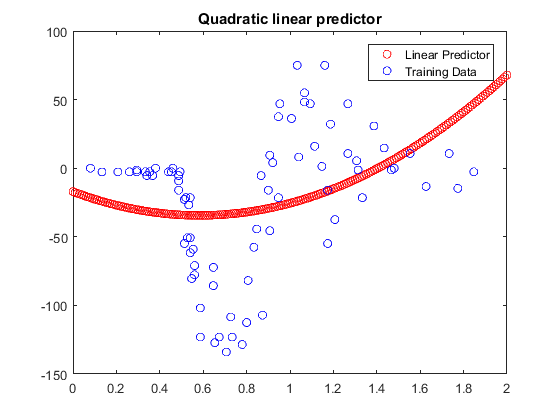
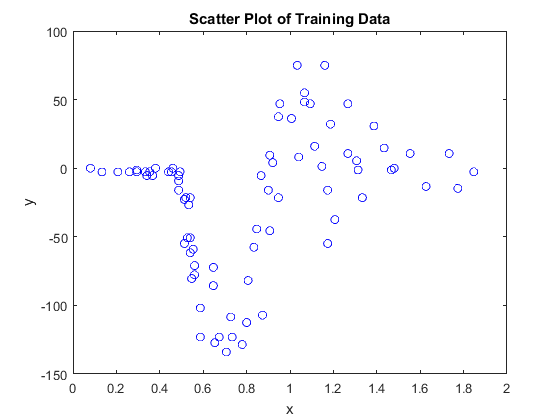
Updated Q1 in report

diff --git a/Assignment 1 - CAB420.tex b/Assignment 1 - CAB420.tex
@@ -1,8 +1,34 @@
 \documentclass[]{report}   % list options between brackets        
-\usepackage{graphicx}      % list packages between braces
+\usepackage{graphicx, listings, color}      % list packages between braces
 \graphicspath{ {Images/} }
 
 % type user-defined commands here
+
+\definecolor{codegreen}{rgb}{0,0.6,0}
+\definecolor{codegray}{rgb}{0.5,0.5,0.5}
+\definecolor{codepurple}{rgb}{0.58,0,0.82}
+\definecolor{backcolour}{rgb}{0.95,0.95,0.92}
+ 
+\lstdefinestyle{mystyle}{
+    backgroundcolor=\color{backcolour},   
+    commentstyle=\color{codegreen},
+    keywordstyle=\color{magenta},
+    numberstyle=\tiny\color{codegray},
+    stringstyle=\color{codepurple},
+    basicstyle=\footnotesize,
+    breakatwhitespace=false,         
+    breaklines=true,                 
+    captionpos=b,                    
+    keepspaces=true,                 
+    numbers=left,                    
+    numbersep=5pt,                  
+    showspaces=false,                
+    showstringspaces=false,
+    showtabs=false,                  
+    tabsize=2
+}
+ 
+\lstset{style=mystyle}
 
 \begin{document}
 
@@ -78,35 +104,62 @@ Using proof by contradiction,
 
 \section{Features, Classes, and Linear Regression}
 %%%%%%%%%%%%%%%%%%%%
-
+(a) Plot the training data in a scatter plot.
 \begin{center}
 	\includegraphics[width=35em]{2_1_Figure_1.png}
+	{Figure 1: Training data in a scatter plot.}
 \end{center} 
-{Figure 1: Quadratic linear predictor.} \\
-{The Mean Squared Error for training data was $2178.55$.} \\
-{The Mean Squared Error for test data was $1463.34$.} \\
-
+~\\
+(b) Create a linear predictor (assuming quadratic features). Plot it on the same plot as the training data.
 \begin{center}
 	\includegraphics[width=35em]{2_1_Figure_2.png}
-\end{center} 
-{Figure 2: Quintic (Fifth-degree) linear predictor.} \\
-{The Mean Squared Error for training data was $1254.61$.} \\
-{The Mean Squared Error for test data was $754.17$.} \\
+	{Figure 2: Quadratic linear predictor with training data scatter plot.}
+\end{center}.
+~\\ 
+(c) Create another plot with the data and a fifth-degree polynomial.
+\begin{center}
+	\includegraphics[width=35em]{2_1_Figure_3.png}
+	{Figure 3: Quintic linear predictor with training data scatter plot.}
+\end{center}
+~\\
+(d) Calculate the mean squared error associated with each of your learned models on the training
+data.
+\begin{lstlisting}[caption=Matlab output for MSE calculations on training data.]
+The MSE for the quadratic linear predictor on training data was: 2178.55
+The MSE for the quintic linear predictor on training data was: 1254.61
+\end{lstlisting}
+~\\
+(e) Calculate the MSE for each model on the test data (in mcycleTest.txt).
+\begin{lstlisting}[caption=Matlab output for MSE calculations on test data.]
+The MSE for the quadratic linear predictor on test data was: 1573.27
+The MSE for the quintic linear predictor on test data was: 999.65
+\end{lstlisting}
+
+
+
 
 
 \section{kNN Regression}
 \section{Hold-out and Cross-validation}
 \section{Nearest Neighbor Classifiers}
 %%%%%%%%%%%%%%%%%%%%
-
 (a) Plot the data by their feature values, using the class value to select the color.
 \begin{center}
 	\includegraphics[width=35em]{2_4_Figure_1.png}
+	{Figure X: Data plotted by feature value with class value determining colour.}
 \end{center} 
-(b) Use the provided $knnClassify$ class to learn a 1-nearest-neighbor predictor. Use the function $class2DPlot(learner,X,Y)$ to plot the decision regions and training data together.
+~\\
+(b) Use the provided $knnClassify$ class to learn a 1-nearest-neighbour predictor. Use the function $class2DPlot(learner,X,Y)$ to plot the decision regions and training data together.
+\begin{lstlisting}[language=Matlab, caption=Teaching the 1-nearest-neighbour predictor.]
+learner = knnClassify(1, X, Y);
+class2DPlot(learner,X,Y);
+title('1-nearest-neighbour predictor');
+\end{lstlisting}
 \begin{center}
 	\includegraphics[width=35em]{2_4_Figure_2.png}
+	{Figure 3: Plot of decision regions and training data. Generated with $class2DPlot()$.}
 \end{center} 
+~\\
 (c) Do the same thing for several values of k (say, [1, 3, 10, 30]) and comment on their appearance.
 \begin{center}
 	\includegraphics[width=35em]{2_4_Figure_3.png}
@@ -129,5 +182,124 @@ Using proof by contradiction,
 
 
 \section{Perceptrons and Logistic Regression}
+{(a) Show the two classes in a scatter plot and verify that one is linearly separable while the other is not.}
+\begin{center}
+%	\includegraphics[width=35em]{2_5_Figure_1.png}
+	{Figure X: Class A. Data {\bf is} linearly separable.}
+\end{center} 
+\begin{center}
+%	\includegraphics[width=35em]{2_5_Figure_2.png}
+	{Figure X: Class B. Data {\bf is not} linearly separable.}
+\end{center} 
+{(b) Write the function @logisticClassify2/plot2DLinear.m so that it plots the two
+classes of data in different colors, along with the decision boundary. Include the listing of your code in your report.}
+
+\begin{lstlisting}[language=Matlab, caption=plot2DLinear() Implementation]
+function plot2DLinear(obj, X, Y)
+% plot2DLinear(obj, X,Y)
+%   plot a linear classifier (data and decision boundary) when features X are 2-dim
+%   wts are 1x3,  wts(1)+wts(2)*X(1)+wts(3)*X(2)
+%
+[n,d] = size(X);
+if (d~=2) error('Sorry -- plot2DLogistic only works on 2D data...'); end;
+
+%%% TODO: Fill in the rest of this function...
+figure('Name','Linear Plot');
+hold on;
+
+% Plot class data.
+classes = unique(Y);
+
+classAIndicies = find(Y==classes(1));
+xPointsClassA = X(classAIndicies, 1:end);
+scatter(xPointsClassA(:, 1), xPointsClassA(:, 2));
+
+classBIndicies = find(Y==classes(2));
+xPointsClassB = X(classBIndicies, 1:end);
+scatter(xPointsClassB(:, 1), xPointsClassB(:, 2));
+
+
+% Plot decision boundary.
+wts = getWeights(obj);
+f = @(x1, x2) wts(1) + wts(2)*x1 + wts(3)*x2 ;
+ezplot(f,[-3.5,3.5])
+
+legend('Class 0','Class 1', 'Decision Bondary');
+hold off;
+\end{lstlisting}
+{To demo your function plot the decision boundary corresponding to the classifier: $sign( .5 + 1x_{1} − .25x_{2} )$ along with the A data, and again with the B data.}
+\begin{lstlisting}[language=Matlab, caption=Demoing plot2DLinear()]
+%% (B) Write the function @logisticClassify2/plot2DLinear.m such that it 
+%      can Plot the two classes of data in different colors, along with the 
+%      decision boundary (a line). To demo your function plot the decision 
+%       boundary corresponding to the classifier sign( .5 + 1x1 − .25x2 )
+%       along with the A data, and again with the B data.
+
+learner=logisticClassify2(); % create "blank" learner
+learner=setClasses(learner, unique(YA)); % define class labels using YA or YB
+wts = [0.5 1 -0.25]; % TODO: fill in values
+learner=setWeights(learner, wts); % set the learner's parameters
+plot2DLinear(learner, XA, YA);
+title('Class A with Decision Boundary');
+plot2DLinear(learner, XB, YB);
+title('Class B with Decision Boundary');
+\end{lstlisting}
+\begin{center}
+%	\includegraphics[width=35em]{2_5_Figure_3.png}
+	{Figure X: Class A with decision boundary plotted.}
+\end{center} 
+\begin{center}
+%	\includegraphics[width=35em]{2_5_Figure_4.png}
+	{Figure X: Class B with decision boundary plotted.}
+\end{center} 
+{(c) Complete the predict.m function to make predictions for your linear classifier.}
+\begin{lstlisting}[language=Matlab, caption=predict() Implementation]
+function Yte = predict(obj,Xte)
+% Yhat = predict(obj, X)  : make predictions on test data X
+
+% (1) make predictions based on the sign of wts(1) + wts(2)*x(:,1) + ...
+% (2) convert predictions to saved classes: Yte = obj.classes( [1 or 2] );
+wts = getWeights(obj);
+yhat = zeros(size(Xte,1),1);
+f = @(x1, x2) wts(1) + wts(2)*x1 + wts(3)*x2;
+
+for i=1:size(Xte,1)
+    x = sign(f(Xte(i,1),Xte(i,2)));
+    yhat(i) = obj.classes(ceil((x+3)/2));
+end;
+
+Yte = yhat;
+\end{lstlisting}
+{Again, verify that your function works by computing \& reporting the error rate of the classifier in the previous part on both data sets A and B. (The error rate on data set A should be ≈ 0.0505.)}
+\begin{lstlisting}[language=Matlab, caption=Verifying predict() works]
+yte = predict(learner,XA);
+classError = errorTrain(YA,yte); % = 0.0505
+disp(strcat({'The error for class A is:'},{' '},{num2str(classError,' %.4f')}));
+
+yte = predict(learner,XB);
+classError = errorTrain(YB,yte); % = 0.5455
+disp(strcat({'The error for class B is:'},{' '},{num2str(classError,' %.4f')}));
+\end{lstlisting}
+\begin{center}
+	{Output from Listing 2.4 is as follows: \\ 'The error for class A is: 0.0505' \\ 'The error for class B is: 0.5455'.}
+\end{center} 
+{(d) The derivative of the gradient can be found by computing xxx over the surrogate loss for point ji. The derivative then is as follows:
+}
+
+
+
+(e) Complete your train.m function to perform stochastic gradient descent on the logistic loss function. This will require that you fill in:
+
+(1) computing the surrogate loss function at each iteration ($J = 1/m\sum J_{j}$)
+
+
+
+(2) computing the prediction and gradient associated with each data point x
+(i)
+, y(i)
+;
+(3) a gradient step on the parameters θ;
+(4) a stopping criterion (usually either stopIter iterations or that J has not changed by more
+than stopTol since the last iteration through all the data).
 
 \end{document}
